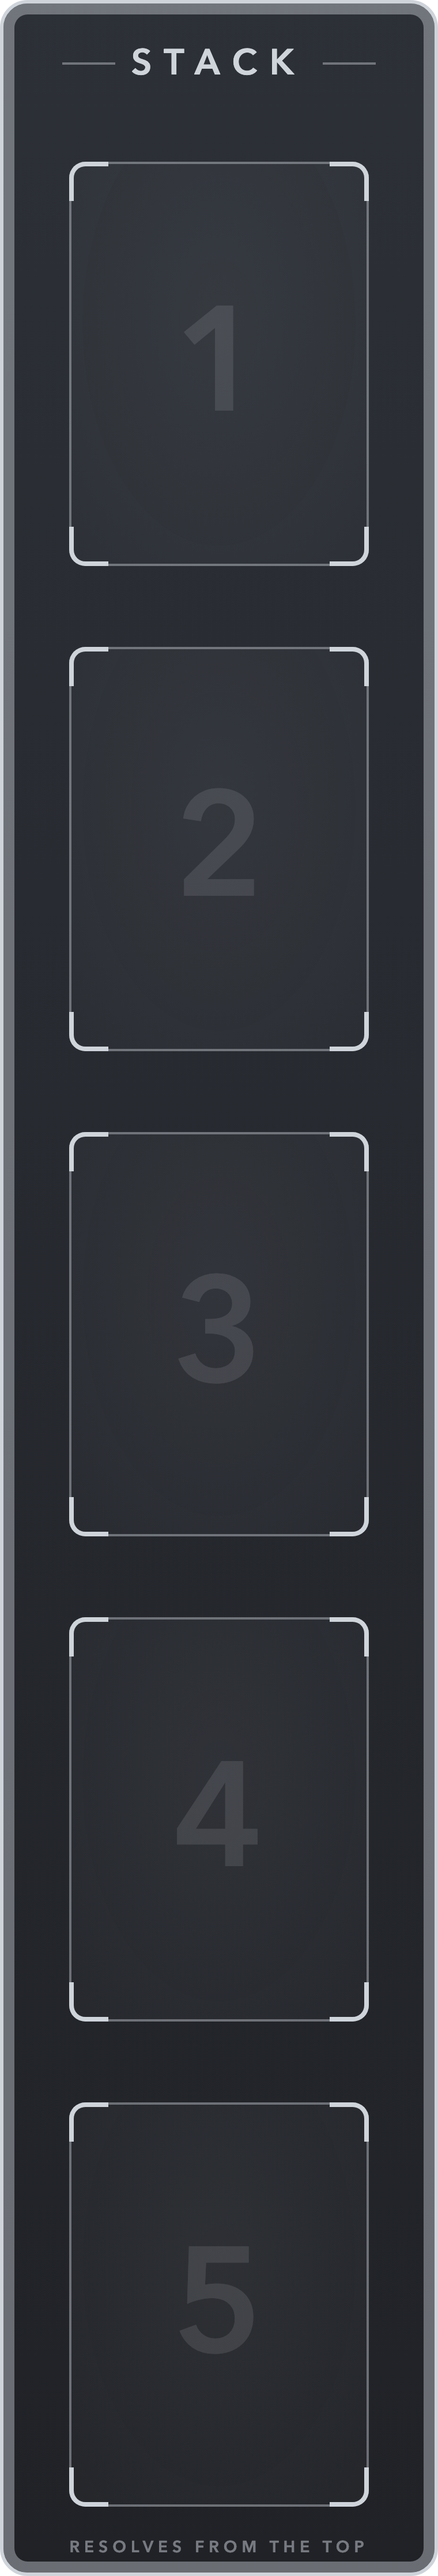
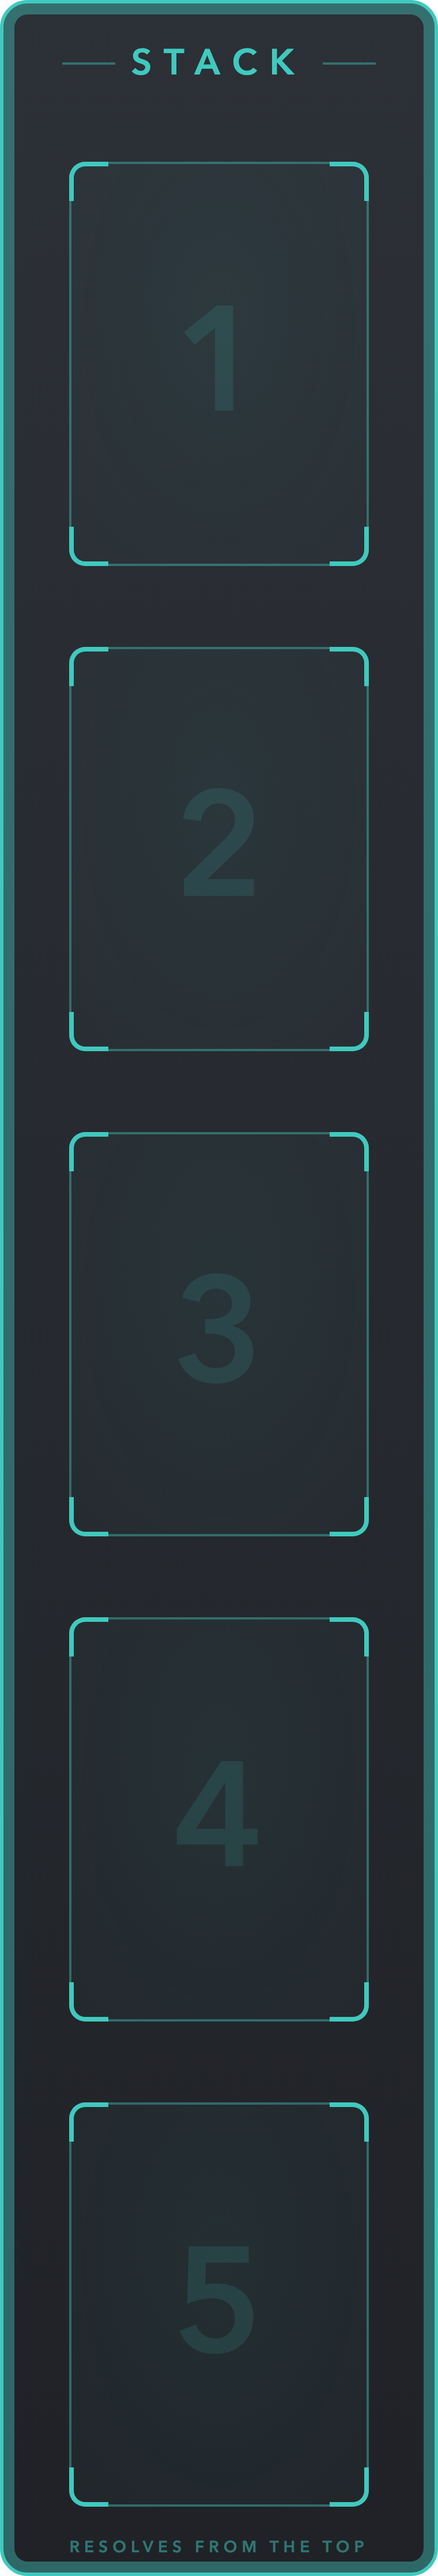
Table: teal stack frames; trigger areas reach the land line

diff --git a/scripts/tabletop/make_table_art.py b/scripts/tabletop/make_table_art.py
@@ -26,7 +26,9 @@ CHROME = Path("/Applications/Google Chrome.app/Contents/MacOS/Google Chrome")
 OUT = table.SOURCE / "table"
 PX = 100                                   # CSS pixels per table unit
 FONT = '"Avenir Next", "Helvetica Neue", Helvetica, Arial, sans-serif'
-SILVER, SILVER_DIM = "#cfd4db", "rgba(207, 212, 219, 0.42)"
+# The stack panel's accent: teal, a colour no seat uses (see SEAT_RGB).
+ACCENT = "64, 201, 190"
+FRAME, FRAME_DIM = f"rgb({ACCENT})", f"rgba({ACCENT}, 0.42)"
 # Playmat border colours: Tabletop Simulator's seat colours, except White's cream mat.
 SEAT_RGB = {"White": (0.92, 0.88, 0.78), "Red": (0.856, 0.1, 0.094),
             "Yellow": (0.905, 0.898, 0.172), "Green": (0.192, 0.701, 0.168),
@@ -59,23 +61,23 @@ def stack_panel() -> None:
 html, body {{ margin: 0; width: {w}px; height: {h}px; background: transparent; overflow: hidden; position: relative; }}
 .panel {{ position: absolute; inset: 0; border-radius: 24px; box-sizing: border-box;
   background: linear-gradient(180deg, rgba(33, 37, 44, 0.95), rgba(20, 22, 27, 0.95));
-  border: 3px solid {SILVER}; box-shadow: inset 0 0 0 8px rgba(20, 22, 27, 0.0), inset 0 0 0 9.5px {SILVER_DIM}; }}
+  border: 3px solid {FRAME}; box-shadow: inset 0 0 0 8px rgba(20, 22, 27, 0.0), inset 0 0 0 9.5px {FRAME_DIM}; }}
 .head {{ position: absolute; left: 0; right: 0; top: 0; height: {g["header"] * PX + 30}px;
   display: flex; align-items: center; justify-content: center; gap: 14px;
-  font: 600 31px/1 {FONT}; letter-spacing: 11px; color: {SILVER}; }}
-.head b {{ display: block; width: 46px; height: 2px; background: {SILVER_DIM}; }}
+  font: 600 31px/1 {FONT}; letter-spacing: 11px; color: {FRAME}; }}
+.head b {{ display: block; width: 46px; height: 2px; background: {FRAME_DIM}; }}
 .slot {{ position: absolute; width: {table.SLOT_W * PX}px; height: {table.SLOT_H * PX}px; box-sizing: border-box;
-  border-radius: 14px; border: 2px solid {SILVER_DIM};
-  background: radial-gradient(ellipse at 50% 40%, rgba(207, 212, 219, 0.07), rgba(207, 212, 219, 0.02)); }}
+  border-radius: 14px; border: 2px solid {FRAME_DIM};
+  background: radial-gradient(ellipse at 50% 40%, rgba({ACCENT}, 0.07), rgba({ACCENT}, 0.02)); }}
 .slot span {{ position: absolute; inset: 0; display: flex; align-items: center; justify-content: center;
-  font: 600 128px/1 {FONT}; color: rgba(207, 212, 219, 0.13); }}
-.c {{ position: absolute; width: 30px; height: 30px; border: 0 solid {SILVER}; }}
+  font: 600 128px/1 {FONT}; color: rgba({ACCENT}, 0.13); }}
+.c {{ position: absolute; width: 30px; height: 30px; border: 0 solid {FRAME}; }}
 .tl {{ left: -2px; top: -2px; border-width: 4px 0 0 4px; border-top-left-radius: 14px; }}
 .tr {{ right: -2px; top: -2px; border-width: 4px 4px 0 0; border-top-right-radius: 14px; }}
 .bl {{ left: -2px; bottom: -2px; border-width: 0 0 4px 4px; border-bottom-left-radius: 14px; }}
 .br {{ right: -2px; bottom: -2px; border-width: 0 4px 4px 0; border-bottom-right-radius: 14px; }}
 .foot {{ position: absolute; left: 0; right: 0; bottom: 18px; text-align: center;
-  font: 600 14px/1 {FONT}; letter-spacing: 4px; color: rgba(207, 212, 219, 0.5); }}
+  font: 600 14px/1 {FONT}; letter-spacing: 4px; color: rgba({ACCENT}, 0.5); }}
 </style><div class="panel"></div><div class="head"><b></b>STACK<b></b></div>{"".join(slots)}
 <div class="foot">RESOLVES FROM THE TOP</div>"""
     render(html, w, h, OUT / "stack-panel.png")

diff --git a/tts/WIP.md b/tts/WIP.md
@@ -3,7 +3,7 @@
 Living status doc for the Tabletop Simulator table work. Whoever picks this up (Claude or
 Codex) reads it first and updates it with every change. The [TTS development guide](../docs/development/tts-development-guide.md) and README are the lasting documentation; this file tracks what is in flight.
 
-Last updated 2026-10-24 (Claude): delivered **v70** (trigger areas in seat colours; stack panel picture), after v69 (per-seat guide-line switches), v68 (edge strip redrawn as a five-slot stack), v67 (fixes v66's hand-index script errors), v66 (no music from cards in hand; Inspect deselects) and v65 (battle music by named cards, nine new songs; see below). Previously (Codex): delivered **v64**, using explicit white Text
+Last updated 2026-10-24 (Claude): delivered **v71** (teal stack frames; trigger areas to the land line), after v70 (trigger areas in seat colours; stack panel picture), v69 (per-seat guide-line switches), v68 (edge strip redrawn as a five-slot stack), v67 (fixes v66's hand-index script errors), v66 (no music from cards in hand; Inspect deselects) and v65 (battle music by named cards, nine new songs; see below). Previously (Codex): delivered **v64**, using explicit white Text
 for Show commander / Hide commander after v63's native label remained dark.
 Both states visually checked live. **Steam is now v64, published at the owner’s request.** See [the changelog](../docs/development/tts-changelog.md).
 
@@ -11,6 +11,15 @@ Both states visually checked live. **Steam is now v64, published at the owner’
 
 
 
+
+## v71: teal stack frames; trigger areas reach the land line (saved; not on Steam)
+
+Owner after v70: the stack frames should be a colour no player uses, and the trigger
+rectangle should run all the way down to the land line. `make_table_art.py` now draws
+the stack panel's frames, title and numerals in teal (`ACCENT`, 64/201/190), away from
+every seat colour including Green and Blue. `cactuar_lines.lua` ends the box at the
+printed land line (`CZL.landLine` 0.31 of the depth from the player's edge, the v69
+estimate) instead of 40% down; the label stays centred in the taller box.
 
 ## v70: trigger areas in seat colours, stack panel picture (saved; not on Steam)
 
